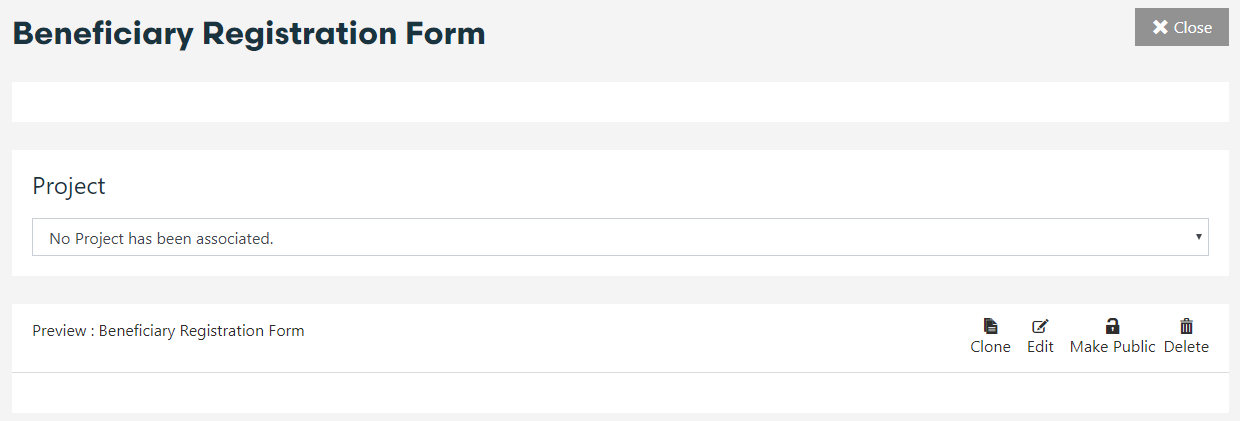
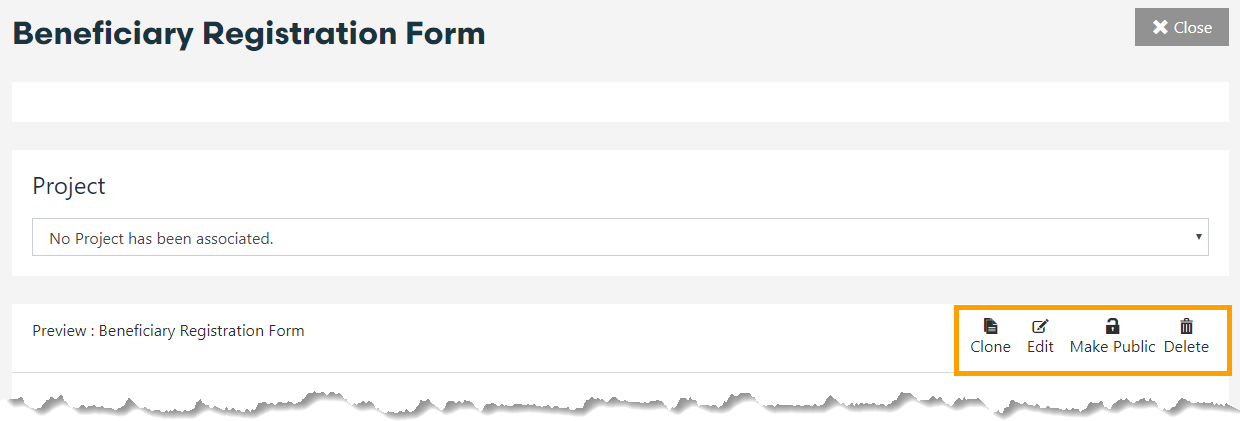
Updates en/assets_en/no_project.PNG
Auto commit by GitBook Editor

diff --git a/en/form-library/publish-a-form.md b/en/form-library/publish-a-form.md
@@ -9,12 +9,16 @@ This is an example of a published form.
 
 Click on:
 `View Data Table` to access collected data in Track;
+
 `Stop submissions` to prevent team members and enumerators from collecting more data through this form;
+
 `Clone` to copy this form, possibly edit and reuse it for another program;
+
 `Edit` to make changes to your form;
+
 `Make private` to prevent others from seeing and collecting data through your form or keep it public to allow other users from your organization to access and submit data through your form.
 
-> **Quick Tip:** Remember! You need to link your form to a program to be able to publish it and use for data collection.
+> **Quick Tip:** Remember! You need to link your form to a program first to be able to publish it and use for data collection.
 
 No project has been associated with this form. As a results, no `Publish` button is available. This form is available for editing only.
 
